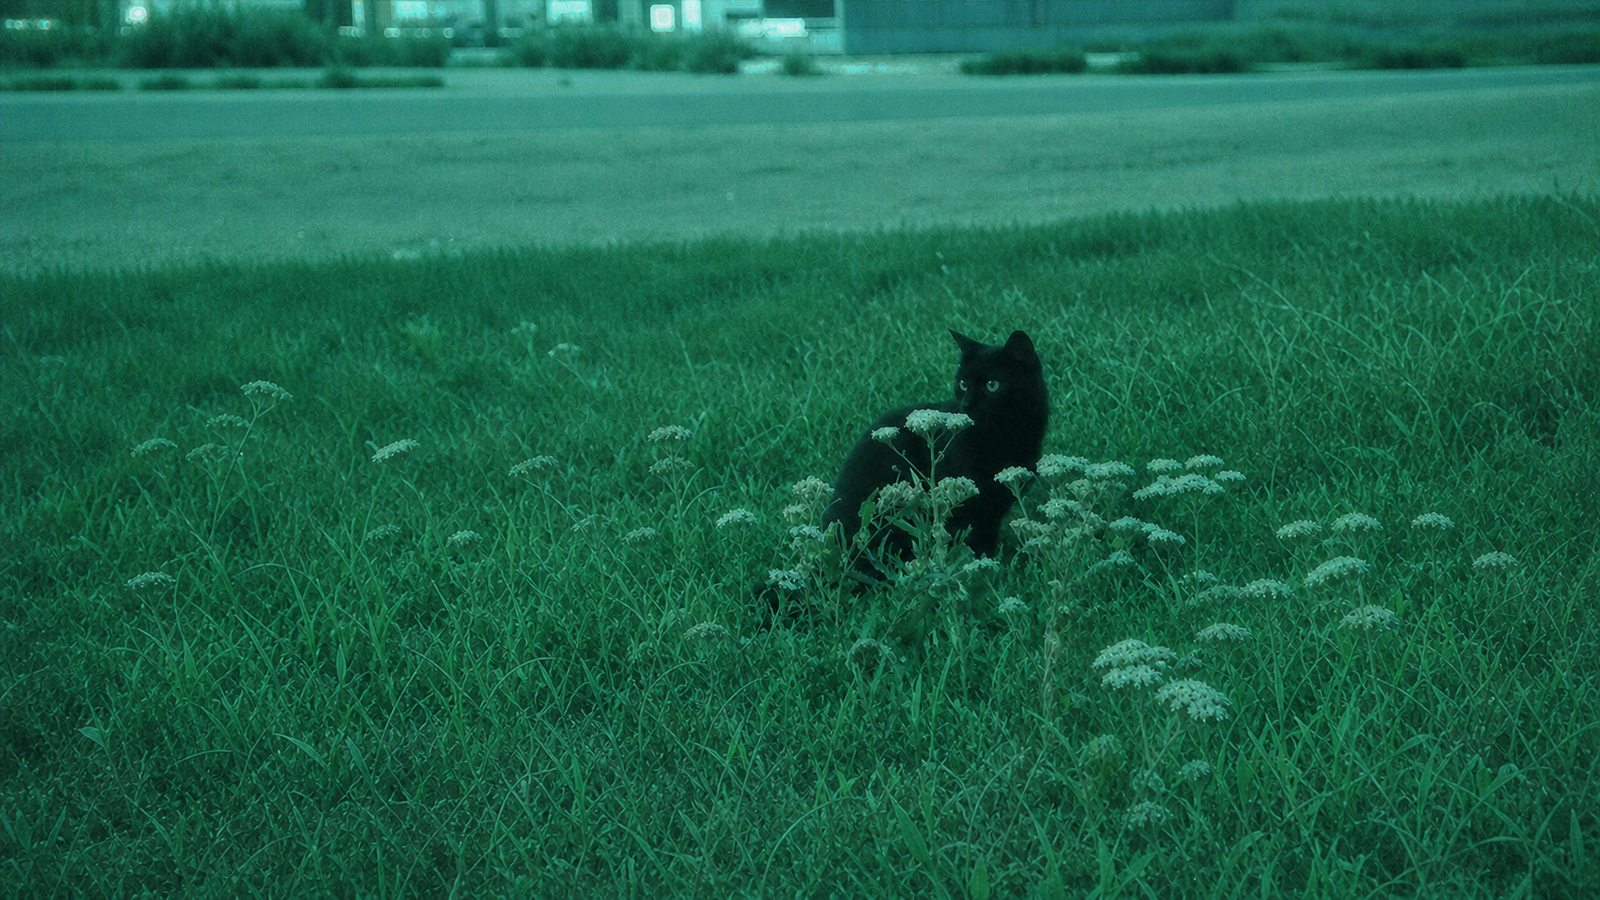
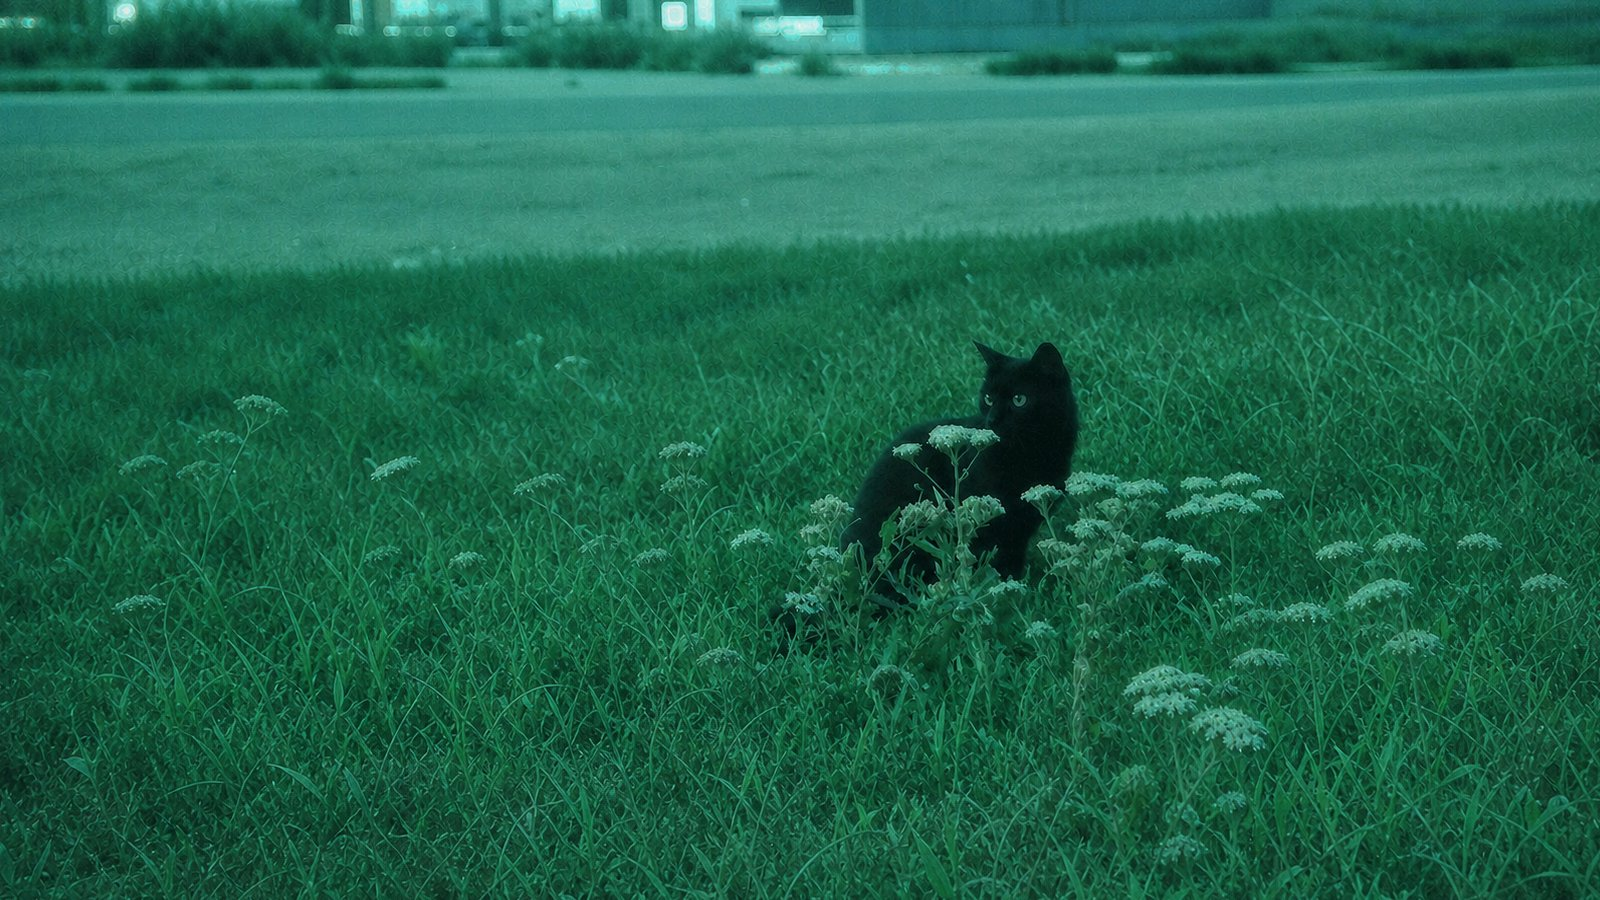
refine: align theme backgrounds and soften light mode

diff --git a/themes/garden/source/css/style.css b/themes/garden/source/css/style.css
@@ -15,21 +15,21 @@
 /* ===== Tokens ===== */
 :root {
   /* 浅色模式 */
-  --g-bg:          #e7ece4;
-  --g-bg-elevated: #f0f3ed;
-  --g-bg-soft:     #dde5da;
-  --g-border:      #c9d3c6;
-  --g-border-hover:#aebcab;
+  --g-bg:          #dde4da;
+  --g-bg-elevated: #e9ede6;
+  --g-bg-soft:     #d3ddd0;
+  --g-border:      #c0ccbd;
+  --g-border-hover:#a4b4a1;
   --g-text:        #222821;
   --g-text-soft:   #535c53;
-  --g-text-mute:   #687168;
-  --g-accent:      #4f7656;
-  --g-accent-hover:#416849;
-  --g-accent-soft: rgba(79,118,86,0.1);
+  --g-text-mute:   #626b62;
+  --g-accent:      #4b704f;
+  --g-accent-hover:#3e6344;
+  --g-accent-soft: rgba(75,112,79,0.1);
   --g-accent-text: #35533b;
-  --g-accent-border: rgba(79,118,86,.24);
-  --g-ambient:      rgba(79,118,86,0.09);
-  --g-glow:         rgba(79,118,86,.2);
+  --g-accent-border: rgba(75,112,79,.24);
+  --g-ambient:      rgba(75,112,79,0.09);
+  --g-glow:         rgba(75,112,79,.2);
   --g-ash:         #787874;
   --g-ash-soft:    rgba(120,120,116,0.08);
   --g-shadow:      0 1px 3px rgba(34,54,38,.06), 0 1px 2px rgba(34,54,38,.03);
@@ -45,9 +45,9 @@
   --g-ease-standard: cubic-bezier(.2, .8, .2, 1);
   --g-ease-out:      cubic-bezier(.22, 1, .36, 1);
   --g-ease-soft:     cubic-bezier(.4, 0, .2, 1);
-  --g-code-bg:     rgba(232,237,229,.98);
-  --g-code-chrome: #dfe5dc;
-  --g-code-border: #c8d1c5;
+  --g-code-bg:     rgba(222,228,219,.98);
+  --g-code-chrome: #d5ddd2;
+  --g-code-border: #bec9bb;
   --g-code-text:   #26312a;
   --g-code-gutter: #8a938c;
   --g-code-comment:#78827b;
@@ -185,8 +185,13 @@ body {
   pointer-events: none;
   transform: scale(1.035) translate3d(var(--g-scene-x), var(--g-scene-y), 0);
   transform-origin: center;
-  transition: transform var(--g-motion-fast) var(--g-ease-standard);
+  opacity: 1;
+  transition:
+    transform var(--g-motion-fast) var(--g-ease-standard),
+    opacity var(--g-motion-ui) var(--g-ease-soft);
 }
+
+html.theme-switching .site-backdrop { opacity: .16; }
 
 .site-backdrop::before,
 .site-backdrop::after {
@@ -194,12 +199,12 @@ body {
   position: absolute;
   inset: -18px;
   background-image:
-    linear-gradient(180deg, rgba(220,227,217,.52), rgba(220,227,217,.72)),
-    radial-gradient(circle at 72% 46%, rgba(241,244,238,.06), rgba(204,216,201,.24) 68%, rgba(220,227,217,.4)),
+    linear-gradient(180deg, rgba(191,203,189,.38), rgba(191,203,189,.56)),
+    radial-gradient(circle at 72% 46%, rgba(196,207,193,.06), rgba(179,193,176,.16) 68%, rgba(194,205,191,.22)),
     url("/images/garden-bg-light-cat.jpg");
   background-position: center, center, 60% 54%;
   background-size: cover;
-  filter: blur(8px) saturate(.76) brightness(.9) contrast(1.015);
+  filter: blur(2.5px) saturate(.68) brightness(.86) contrast(.96);
 }
 
 .site-backdrop::after {
@@ -230,11 +235,11 @@ body {
   body.is-home.hero-motion-ready .site-backdrop::after {
     display: block;
     background-image:
-      linear-gradient(rgba(220,227,217,.38), rgba(220,227,217,.56)),
-      radial-gradient(circle at var(--g-fog-x) var(--g-fog-y), rgba(85,126,92,.1), transparent 34%),
+      linear-gradient(rgba(191,203,189,.24), rgba(191,203,189,.4)),
+      radial-gradient(circle at var(--g-fog-x) var(--g-fog-y), rgba(75,112,79,.1), transparent 34%),
       url("/images/garden-bg-light-cat.jpg");
     background-position: center, center, 60% 54%;
-    filter: blur(1.5px) saturate(.88) brightness(.92) contrast(1.035);
+    filter: blur(.5px) saturate(.76) brightness(.88) contrast(1);
     opacity: 0;
     -webkit-mask-image: radial-gradient(circle 190px at var(--g-fog-x) var(--g-fog-y), #000 0 43%, rgba(0,0,0,.86) 58%, transparent 100%);
     mask-image: radial-gradient(circle 190px at var(--g-fog-x) var(--g-fog-y), #000 0 43%, rgba(0,0,0,.86) 58%, transparent 100%);
@@ -531,8 +536,8 @@ hr {
 }
 .g-nav.scrolled {
   border-bottom-color: var(--g-border);
-  background: rgba(231,236,228,0.9);
-  box-shadow: 0 1px 0 rgba(85,126,92,.05);
+  background: rgba(221,228,218,0.92);
+  box-shadow: 0 1px 0 rgba(75,112,79,.05);
   backdrop-filter: blur(16px) saturate(1.12);
   -webkit-backdrop-filter: blur(16px) saturate(1.12);
 }

diff --git a/themes/garden/source/js/site.js b/themes/garden/source/js/site.js
@@ -108,7 +108,7 @@
 
       var resolved = resolvedTheme();
       root.style.colorScheme = resolved;
-      if (themeColor) themeColor.setAttribute('content', resolved === 'dark' ? '#121212' : '#fafaf9');
+      if (themeColor) themeColor.setAttribute('content', resolved === 'dark' ? '#121212' : '#dde4da');
 
       if (persist) {
         try { window.localStorage.setItem('garden-theme', mode); } catch (error) {}
@@ -136,9 +136,32 @@
       setPanel(toggle.getAttribute('aria-expanded') !== 'true');
     });
 
+    var themeTimer = 0;
+
+    function switchTheme(mode) {
+      var nextResolved = mode === 'system' ? (systemDark.matches ? 'dark' : 'light') : mode;
+      window.clearTimeout(themeTimer);
+      if (nextResolved === resolvedTheme() || reduceMotion.matches) {
+        root.classList.remove('theme-switching');
+        applyTheme(mode, true);
+        return;
+      }
+
+      root.classList.add('theme-switching');
+      themeTimer = window.setTimeout(function () {
+        themeTimer = 0;
+        applyTheme(mode, true);
+        window.requestAnimationFrame(function () {
+          window.requestAnimationFrame(function () {
+            root.classList.remove('theme-switching');
+          });
+        });
+      }, 140);
+    }
+
     buttons.forEach(function (button) {
       button.addEventListener('click', function () {
-        applyTheme(button.dataset.themeChoice, true);
+        switchTheme(button.dataset.themeChoice);
       });
     });
 
